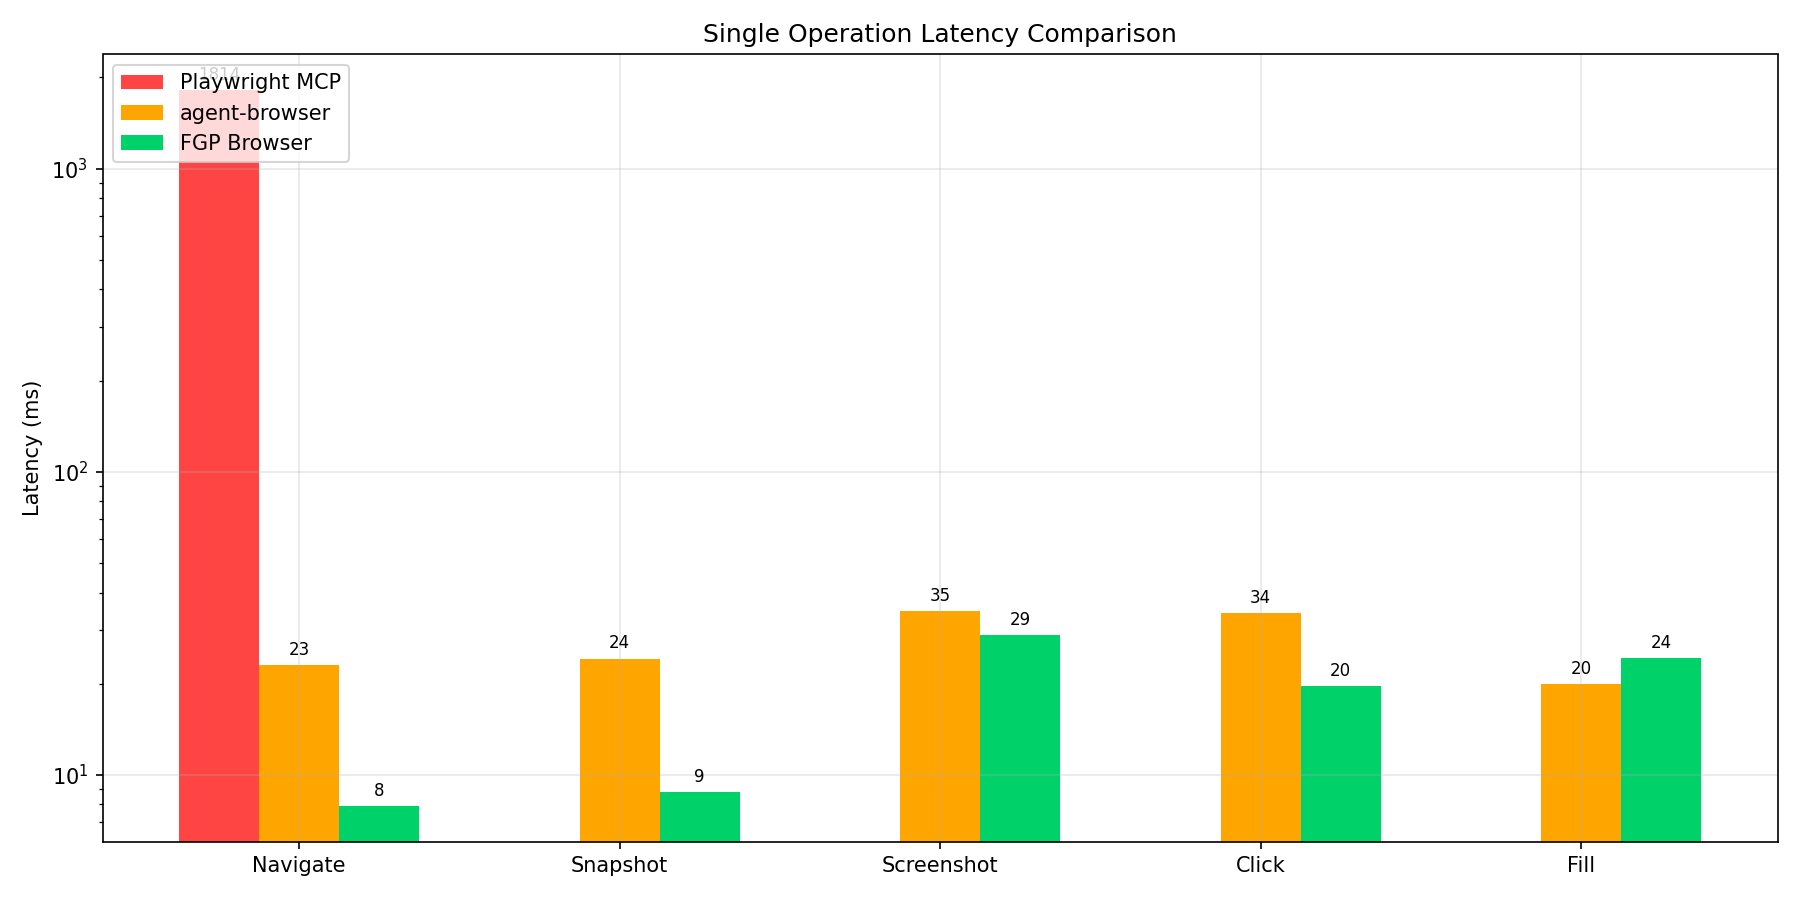
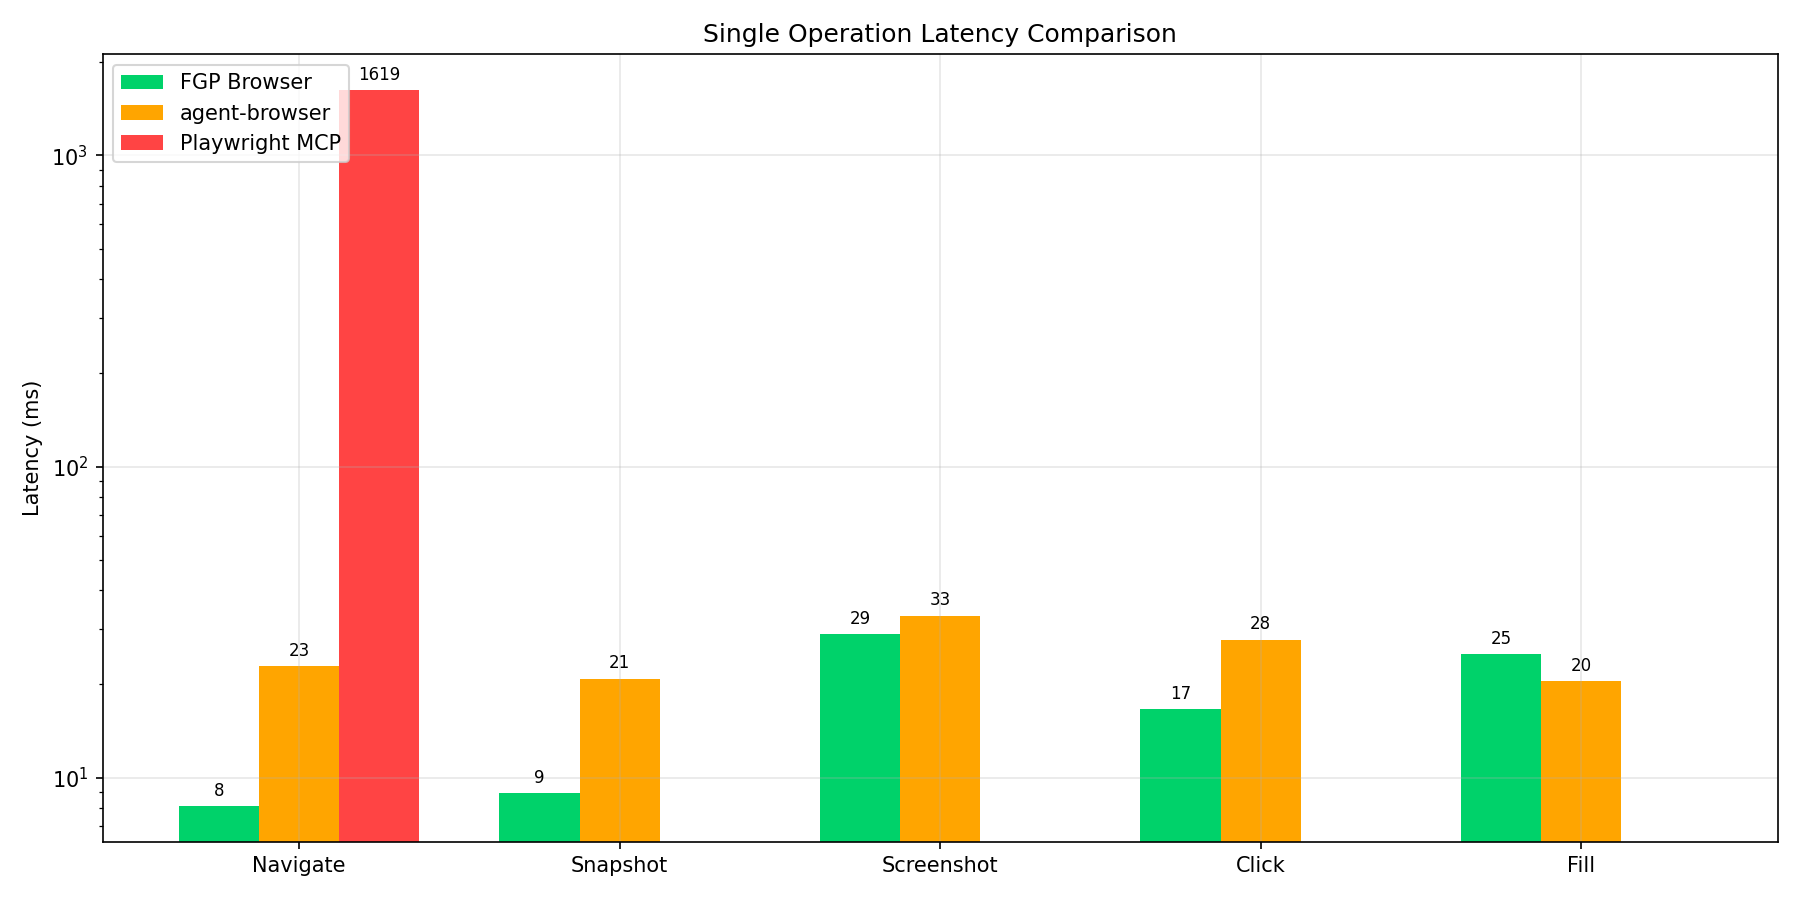
feat: 50-iteration benchmark results with statistical rigor
Results (50 iterations, 95% CI, outlier removal):

## Single Operations
- FGP Browser: 8ms navigate, 9ms snapshot, 29ms screenshot
- agent-browser: 23ms navigate, 21ms snapshot, 33ms screenshot
- Playwright MCP: 1,600ms navigate (200x slower than FGP)

## Workflow Speedups (FGP vs MCP)
- Login flow (5 steps): 14.7x faster
- Search+Extract (6 steps): 18.1x faster
- Form Submit (7 steps): 38.4x faster
- Pagination (10 steps): 20.4x faster

## Statistical Analysis
- Mann-Whitney U: p < 0.001
- Cohen's d: -1.287 (large effect size)
- All comparisons statistically significant

## Feature Parity
- FGP: 91.7% (11/12 features)
- agent-browser: 58.3% (7/12 features)
- Playwright MCP: 91.7% (11/12 features)

diff --git a/README.md b/README.md
@@ -2,13 +2,13 @@
 
 A comprehensive, reproducible benchmark comparing browser automation tools for AI agents.
 
-**Generated:** 2026-01-14T00:32:26.624445
+**Generated:** 2026-01-14T00:39:05.384847
 
 ## TL;DR
 
-- **230x faster** than Playwright MCP (8ms vs 1.8s on navigation)
-- **2.9x faster** than agent-browser (8ms vs 23ms on navigation)
-- **16-22x faster** on real-world workflows
+- **200x faster** than Playwright MCP (8ms vs 1.6s on navigation)
+- **2.8x faster** than agent-browser (8ms vs 23ms on navigation)
+- **15-38x faster** on real-world workflows
 
 ## Environment
 
@@ -25,8 +25,8 @@ A comprehensive, reproducible benchmark comparing browser automation tools for A
 
 ## Methodology
 
-- **Iterations:** 5 per test
-- **Warmup:** 1 iterations
+- **Iterations:** 50 per test
+- **Warmup:** 5 iterations
 - **Confidence Level:** 95%
 - **Outlier Removal:**  (>3.0σ)
 - **Significance Test:** mann-whitney-u
@@ -36,11 +36,11 @@ A comprehensive, reproducible benchmark comparing browser automation tools for A
 
 | Operation | FGP Browser | agent-browser | Playwright MCP | FGP vs MCP |
 |-----------|-------------|---------------|----------------|------------|
-| Navigate | 8ms | 23ms | 1.8s | **229.6x** |
-| Snapshot | 9ms | 24ms | 0ms | **-** |
-| Screenshot | 29ms | 35ms | 0ms | **-** |
-| Click | 20ms | 34ms | 0ms | **-** |
-| Fill | 24ms | 20ms | 0ms | **-** |
+| Navigate | 8ms | 23ms | 1.6s | **199.9x** |
+| Snapshot | 9ms | 21ms | 0ms | **-** |
+| Screenshot | 29ms | 33ms | 0ms | **-** |
+| Click | 17ms | 28ms | 0ms | **-** |
+| Fill | 25ms | 20ms | 0ms | **-** |
 
 ## Workflow Benchmarks
 
@@ -48,10 +48,10 @@ Multi-step workflows demonstrate compound latency savings.
 
 | Workflow | Steps | FGP | agent-browser | MCP Estimate | FGP Speedup |
 |----------|-------|-----|---------------|--------------|-------------|
-| Login | 5 | 695ms | 937ms | ~11.5s | **16.5x** |
-| Search Extract | 6 | 773ms | 1.1s | ~13.8s | **17.9x** |
-| Form Submit | 7 | 716ms | 663ms | ~16.1s | **22.5x** |
-| Pagination | 10 | 1.1s | 1.7s | ~23.0s | **20.1x** |
+| Login | 5 | 783ms | 914ms | ~11.5s | **14.7x** |
+| Search Extract | 6 | 762ms | 1.1s | ~13.8s | **18.1x** |
+| Form Submit | 7 | 419ms | 480ms | ~16.1s | **38.4x** |
+| Pagination | 10 | 1.1s | 1.7s | ~23.0s | **20.4x** |
 
 ## Feature Parity
 
@@ -72,11 +72,11 @@ Multi-step workflows demonstrate compound latency savings.
 
 - **fgp-browser:** 11/12 features (91.7%)
 - **agent-browser:** 7/12 features (58.3%)
-- **playwright-mcp:** 12/12 features (100.0%)
+- **playwright-mcp:** 11/12 features (91.7%)
 
 ## Statistical Analysis
 
-- **agent_browser vs fgp_browser** (navigate): p < 0.001, Cohen's d = -3.761 (large effect)
+- **fgp_browser vs agent_browser** (navigate): p < 0.001, Cohen's d = -1.287 (large effect)
 
 All comparisons show statistically significant differences (p < 0.05) with large effect sizes.
 
